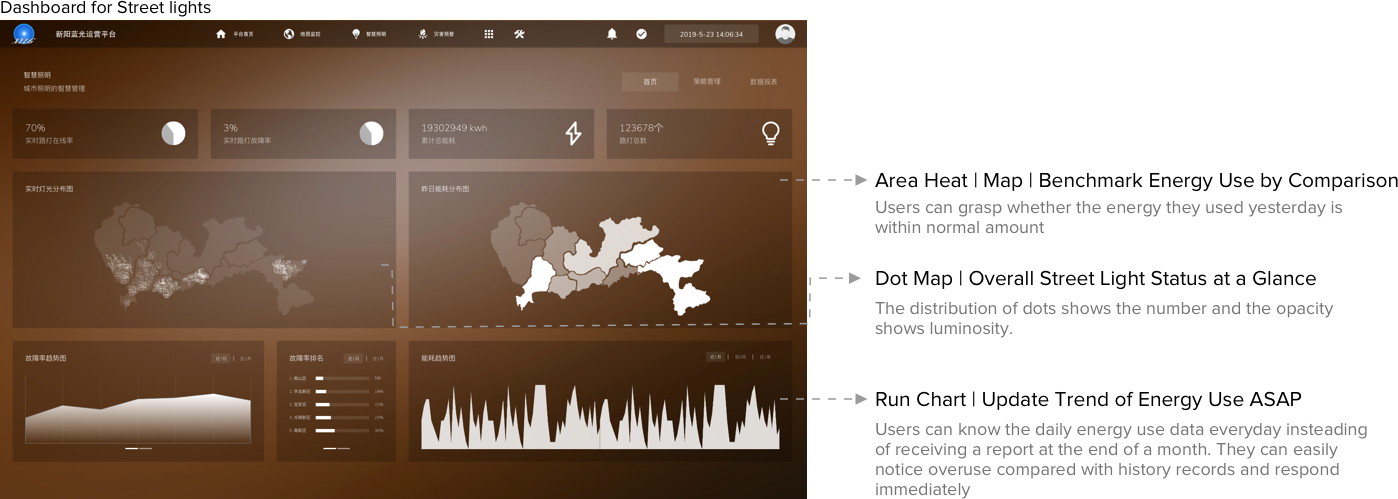
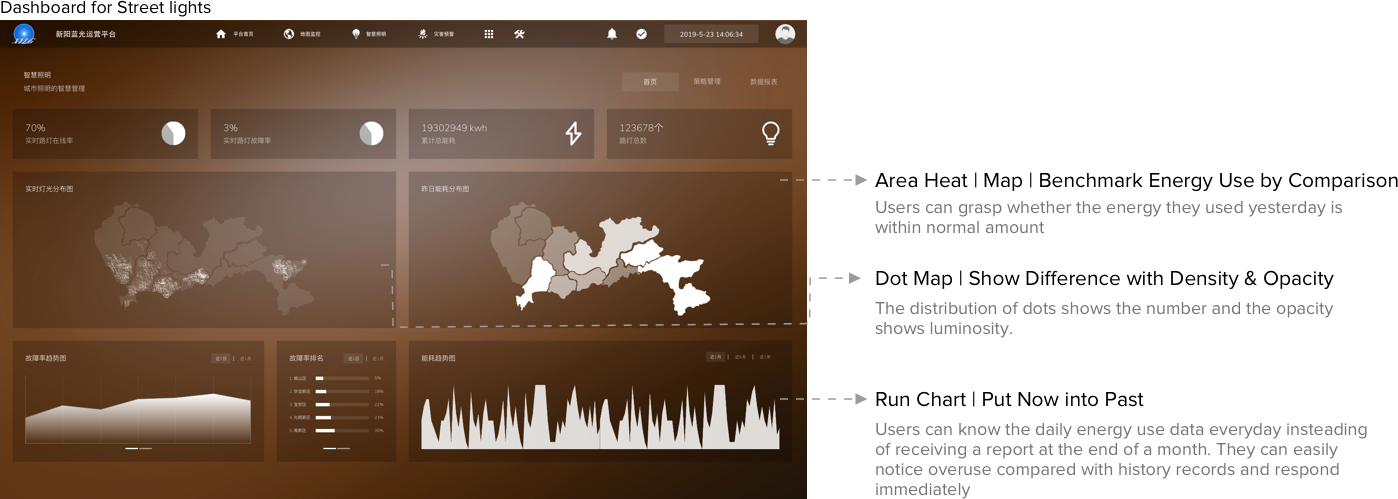
changes

Changed region(s): [[0.6767, 0.5411, 0.9535, 0.5711], [0.7074, 0.7816, 0.9535, 0.8116]]

diff --git a/src/pages/Designer/IoT.js b/src/pages/Designer/IoT.js
@@ -65,38 +65,40 @@ class IoT extends React.Component{
     
                 </section>
                 <section id="list-item-2" className="project_body">
-                    <h2>Research</h2>
+                    <h2>Preliminary Research</h2>
                     <h5>Who are our users and what are the constraints?</h5>
                     <img alt='' className="project_illustration_medium" src={process.env.PUBLIC_URL + "/images/IoT/deliver.jpg"} />
                     <p className="project_caption" style={{ "textAlign": "center" }}>I was delivering my findings to the project team.</p>
-                    <p>To better understand our end users, I interviewed managers and officers in a office park and also administrators from the department in charge of city sewage and light infrastructure. Combining with the knowledge from previous research, I was able to see the overall structure of the organization and how people actually work there.</p>
-                    <h6>Complex User Roles and Various Unmet Needs</h6>
+                    <h6>Methods</h6>
+                    <p>Field Trips and User Interviews</p>
+                    <h6>Participants</h6>
+                    <p>Managers and officers in a office park + Administrators from the department in charge of city sewage and light infrastructure. </p>
+                    <h6>Finding 1: Complex User Roles and Various Unmet Needs</h6>
                     <p>The biggest challenge we face when trying to define the users is that we are so far away from them. We worked for the client who worked for cities or parks. And they are the ones who will eventually implement the system. And normally, the organizations who are interested in IoT are big and complicated. After research, we defined that our users are people in these five different roles with various needs and goals.</p>
                     
                     <img alt='' className="project_illustration" src={process.env.PUBLIC_URL + "/images/IoT/user_role_need.png"} />   
-                    <p>Then we prioritized the jobs to be done (JTBD) and decided that, for this version, we were going to focus on helping the <b>system administrator</b> of the departments related to infrastructure, especially those taking care of the street light, sewage and environmental issues (air & water).</p>
+                    <p>Then, I asked my PM to prioritize the jobs to be done (JTBD) and we finally decided that, for this version, we were going to focus on helping the <b>system administrator</b> of the departments related to infrastructure, especially those taking care of the street light, sewage and environmental issues (air & water).</p>
                     
-                    <h6>Mismatch of System Models and User Mental Models</h6>
-                    <p>IoT system consists of various hardwares, softwares, communication channels, the cloud platform and cloud applications. It is complex and daunting. To create a better cloud application, I spent a lot of time talking with engineers and developers, to understand the purposes, functionalities and limitations of the devices.</p>
+                    <h6>Finding 2: Mismatch of System Models and User Mental Models</h6>
+                    <p>IoT system consists of various hardwares, softwares, communication channels, the cloud platform and cloud applications. It is complex and daunting. I spent a lot of time talking with engineers and developers, to understand the purposes, functionalities and limitations of the devices.</p>
                     
-                    <p>To my surprise, I found that many devices were not working in the ways as I thought it would be.</p>
+                    <p>To my surprise, I found that many devices were not working in the ways that as the users thought it would be.</p>
                     
                     <img alt='' className="project_illustration_small" src={process.env.PUBLIC_URL + "/images/IoT/limitation.png"} />   
                     <p className="project_caption">For example, I thought that the smart street lights could adjust to changing ambient lights and for other cases, they followed a local schedule 'downloading' from the cloud. However, the truth is that the street lights themselves do not contain light sensors. The light sensors work independently, sending data to the cloud. It depends on the cloud application to process sensor data, calculate and send commands to the street lights to control them according to the changes of ambient light. Moreover, the street light works according to ‘a 24-hour clock’. Once the application sends a command, for example, asking it to turn on at 6:00 am, the street light will maintain its status (on or off) at the moment until the time of the internal clock reaches the first 6:00 am.</p>
-                    <p>The mysterious system images of the devices are so different from user mental models and thus created huge obstacles in their use. Also, they created a lot of technical challenges in implementation. </p>
+                    <p>The mysterious system images of the devices were so different from user mental models and thus created huge obstacles in their use. Also, they created a lot of technical challenges in implementation. </p>
                     </section>
                     
                     
                     <section>
-                        <h2>Design Problems</h2>
-                        <h5>What are the actionable problems?</h5>
-                        <p>To move from general knowledge to actionable items, I led a testing on existing website by inviting colleagues from different teams to play the role of a system administrator of the Nanshan District, and complete tasks we assigned according to the users’ daily tasks we learned from research. You can read <a href="https://docs.google.com/document/d/1Wzhgqrxo7YtJaYprwnFdA7flDMVM8VVzVDO9i_Pwb1Y/edit?usp=sharing">the English version of the script here.</a></p>
-                        <p>After several role-playing walkthroughs, I finally located the following problems that I can take actions to:</p>
+                        <h2>From General Knowledge to Design Problems</h2>
+                        <h5>Used usability testing to pivot on actionable items</h5> 
+                        <p>To bridge the preliminary research and design phase, I led a <b>role playing</b> session on existing website by inviting colleagues from different teams to play the role of a system administrator of the Nanshan District, and complete tasks we assigned according to the users’ daily tasks we learned from previous research. You can read <a href="https://docs.google.com/document/d/1Wzhgqrxo7YtJaYprwnFdA7flDMVM8VVzVDO9i_Pwb1Y/edit?usp=sharing">the English version of the script here.</a></p>
+                        <p>After several role-playing walkthroughs, I finally located the following problems that I could take actions to:</p>
                         <ul>
-                            <li><b>#1</b> Users cannot grasp the information of the dashboards at a glance;</li>
-                            <li><b>#2</b> Users are not satisfied with a single-page notification center when they want to keep track of anomalies and take actions;</li>
-                            <li><b>#3</b> Users are unable to navigate, zoom in and out the map view easily for both the overview and details;</li>
-                            <li><b>#4</b> Single-light real time control does not fit with the user working habits and the system’s end goal;</li>
+                            <li><b>#1</b> Users could not grasp system status at a glance and move from what they know to what they can do;</li>
+                            <li><b>#2</b> Users were unable to navigate, zoom in and out the map view easily for both a overview and details;</li>
+                            <li><b>#3</b> Single-light real time control did not not fit with the users' working habits;</li>
                         </ul>
                         
                     </section>     
@@ -109,46 +111,41 @@ class IoT extends React.Component{
        
                 <section id="list-item-3" className="project_body">
                     <h2>#1 Design Problem | Data visualization</h2>
-                    <h5>How can we help users to grasp the status of the system at a glance?</h5>
-                    <p>In the interview, I noticed that administrator's daily workflow involves three kinds of data</p>
+                    <h5>How can we help users to grasp and use the information they need?</h5>
+                    <p>In the interview, I noticed that administrator's daily workflow can be depicted as follow:</p>
                         <img alt='' className="project_illustration" src={process.env.PUBLIC_URL + "/images/IoT/3_types_of_data.png"} />  
-              
+                        <p className="project_caption" style={{ "textAlign": "center" }}>A Day of an Administrator</p>
                     <h6>① Overview</h6>
-                    <p>As shown in the quotes, people often walked around the areas they in charge or checked the monitors, went through the history of data, and compared with others or some benchmarks to evaluate whether the system is healthy or not. Similarly, providing <b>real-time snapshot</b> of the system status, <b>historical records</b> and <b>comparisons</b> on the dashboards can help users to quickly grasp the overview. Thus, I tried to include all these three perspectives in the data visualization.</p>
-                    <p>So I started with low-fidelity prototypes and test them with my colleagues from administrative team as an alternative to real users since they have the most similiar mindset. I asked them to sort the graphs according to importance, and point out the ones they could not understand.</p>
+                    
+                    <p>I started with low-fidelity prototypes and test them with my colleagues from administrative team as an alternative to real users, since they share similiar mindset. I asked them to sort the graphs according to importance, and point out the ones they could not understand.</p>
                     <img alt='' className="project_illustration_medium" src={process.env.PUBLIC_URL + "/images/IoT/testing_vis.gif"} />
-                    <p className="project_caption">This is a clickable testing page I created with Axure. The tree maps on the left are the categories these graphs belong to including energy consumption data, quantity data and device type data. The graphs are drafted from all the three perspectives I mentioned above.</p>
-                    <p>Based on people’s reaction. I delivered four dashboards: one for all devices, which is at the homepage of the application; and others are for smart street lights, smart manhole covers and environment sensors. </p>
+                    <p className="project_caption">This is a clickable testing page I created with Axure. The graphs are drafted from all the three perspectives I mentioned above.</p>
+                    <p>I found that: </p>
+                    <div className="project_quote">
+                        <div className="project_quote_wrapper">
+                        <p className="project_quote_text">People make sense of data only in comparison.</p>
+                        </div>
+                    </div>
+                    
+                    <p><b>Real-time snapshots</b> of the system can reveal to them the status quo, but more importantly, comparing data with <b>historical records</b> and <b>others</b>  can help them interpret the data in contexts.</p>
+                   
+                    <p>Based on the insight. I delivered four dashboards: one for all devices, which is at the homepage of the application; and others are for smart street lights, smart manhole covers and environment sensors. </p>
                     <img alt='' className="project_illustration" src={process.env.PUBLIC_URL + "/images/IoT/street_light_dashboard.png"} />   
                     <div className="image_model_link_container"><Button variant="link" onClick={() => this.triggerModel("/images/IoT/street_light_dashboard_move.gif")}>Click to watch it move.</Button></div>
-                    <p className="project_caption">This is the dashboard for street lights. I created seven different variations and finally settled down on this one since it puts emphasis on snapshot of lighting in the area and allows users to compare among areas and across time.</p>
                     <img alt='' className="project_illustration" src={process.env.PUBLIC_URL + "/images/IoT/homepage_dashboard.png"} /> 
                     <div className="image_model_link_container"><Button variant="link" onClick={() => this.triggerModel("/images/IoT/homepage_dashboard_move.gif")}>Click to watch it move.</Button></div>
                     <img alt='' className="project_illustration" src={process.env.PUBLIC_URL + "/images/IoT/env_sensor_dashboard.png"} /> 
                     <div className="image_model_link_container"><Button variant="link" onClick={() => this.triggerModel("/images/IoT/env_sensor_dashboard_move.gif")}>Click to watch it move.</Button></div>
                     <img alt='' className="project_illustration" src={process.env.PUBLIC_URL + "/images/IoT/manhole_cover_dashboard.png"} /> 
                     <div className="image_model_link_container"><Button variant="link" onClick={() => this.triggerModel("/images/IoT/manhole_cover_dashboard_move.gif")}>Click to watch it move.</Button></div>
-                    <p className="project_caption">These are the other dashboards. The first one is on homepage. The visualization here focuses on showing the general status of the system. The second is dashboard for environmental sensors and the last for smart manhole covers.</p>
-    
-                    <p>To sum up, to show real-time status, I used big numbers, pie charts (especially for those numbers which are too big to make sense) and heatmaps, and put emphasis on abnormal areas on the map. For history, I used run charts. For comparison among areas, heatmap and ranking are useful. </p>
-
-                    <h6>② Anomalies</h6>
-                    <p>In the interview, participants kept mentioning how they checked on device breakdown or abnormal data in their daily work. They wanted to know what is going wrong, and they sought for more information, and guidance on how to bring them back to normal. So to feed this need, creating a better notification system is with high priority (this is described in the latter part). Moreover, we need to improve the dashboards to highlight abnormal data. So I worked with PM and engineers to define anomalies for different data and worked with visual designers on how they should be displayed.</p>
+                    <p> Moreover, we need to improve the dashboards to highlight abnormal data. So I worked with PM and engineers to define anomalies for different data and worked with visual designers on how they should be displayed.</p>
                     <img alt='' className="project_illustration" src={process.env.PUBLIC_URL + "/images/IoT/color_legend_icon.png"} />
                     <p className="project_caption" style={{ "textAlign": "center" }}>Icons credited to visual and graphic designer Shiguang Yang.</p>
                     <p>On the left are the color legends I created based on devices' data set and national standards; On the right are the icons indicating various device status.</p>
 
-                    <h6>③ Details</h6>
-                    <p>Sometimes users did go out to check on a specific device, mostly when something went wrong. Therefore, I linked alerts and abnormal area on heatmap with the related device’s detailed information. </p>
-                    <img alt='' className="project_illustration" src={process.env.PUBLIC_URL + "/images/IoT/anomaly_to_detail.gif"} /> 
-                    <p className="project_caption">Here is an example of how users are able to navigate to detailed page of a specific device from dashboard map. The detailed page provides general information of the device, real-time data and also logs in forms of table and graph.</p>
+                    <h6>② Anomalies</h6>
+                    <p>In the interview, participants kept mentioning how they checked on device breakdown or abnormal data in their daily work. They wanted to know what is going wrong, and they sought for more information, and guidance on how to bring them back to normal.</p>
                     
-                </section>
-
-                <section id="list-item-4" className="project_body">
-                    <h2>#2 Design Problem | Interaction Design</h2>
-                    <h5>How can we alert users to the abnormal data and help them fix them?</h5>
-                    <p>As I mentioned before, users care about anomalies, since they indicate problems to be fixed. However, only noticing the problem is not enough. Users want ways to actually solve the problem. </p>
                     <p>I divided the process of alert into <b>three phases</b>: <b>notice</b>, <b>understand</b>, <b>act</b>. The biggest gap doesn’t lie between the anomaly and the user’s perception, but between perception and action.</p>
                     <img alt='three phases of alert design' className="project_illustration_medium" src={process.env.PUBLIC_URL + "/images/IoT/three_phases.png"} />
                     <p className="project_caption">A sketch of the three phases of alert design and the wireframes of their application in the website.</p>
@@ -167,9 +164,21 @@ class IoT extends React.Component{
                     <p>In the previous phase, users can easily find an button that leads them to the page where they can kick off the procedure to deal with the problem.</p>
                     <img alt='three phases of alert design' className="project_illustration" src={process.env.PUBLIC_URL + "/images/IoT/alert_3.gif"} />
                     
+                    
+            
+                    
+                    
+
+                    <h6>③ Detailed View</h6>
+                    <p>Sometimes users did go out to check on a specific device, mostly when something went wrong. Therefore, I linked alerts and abnormal area on heatmap with the related device’s detailed information. </p>
+                    <img alt='' className="project_illustration" src={process.env.PUBLIC_URL + "/images/IoT/anomaly_to_detail.gif"} /> 
+                    <p className="project_caption">Here is an example of how users are able to navigate to detailed page of a specific device from dashboard map. The detailed page provides general information of the device, real-time data and also logs in forms of table and graph.</p>
+                    
                 </section>
+
+     
                 <section id="list-item-5" className="project_body">
-                    <h2>#3 Design Problem | Information Navigation & Findibility</h2>
+                    <h2>#2 Design Problem | Information Navigation & Findibility</h2>
                     <h5>How can we help users to navigate information at various scales?</h5>
                     <p>There are three important components in the map view of monitor and control hub: a map showing devices with icons, a list of devices in the right drawer, filters of areas and device types on the top. During the role-play walkthroughs, I found that: </p>
                     <Container>
@@ -215,7 +224,7 @@ class IoT extends React.Component{
                     
                 </section>
                 <section id="list-item-6" className="project_body">
-                    <h2>#4 Design Problem | Match System Image with User Mental Model</h2>
+                    <h2>#3 Design Problem | Match System Image with User Mental Model</h2>
                     <h5>How can we improve the way how users control the street lights to be simple and intuitive?</h5>
                     <h6>How do users actually work in real life?</h6>
                     <p>In the user interview, I found that how users set the working time of street lights was different from what I had thought. </p>
@@ -281,16 +290,15 @@ class IoT extends React.Component{
               onHide={() => this.setState({modalShow:false})} 
               url={this.state.url}
             />
-            <div className="scrollby" style={{position: "fixed", right: "3vw", bottom: "5vh"}}>
+            <div className="scrollby" style={{position: "fixed", right: "2vw", bottom: "5vh"}}>
                 <ul uk-scrollspy-nav="closest: li; scroll: true; offset: 80"
                     className="uk-nav uk-nav-default tm-nav uk-nav-parent-icon">
                     <li className="uk-l"><a href="#list-item-0">Top</a></li>
                     <li className="uk-l"><a href="#list-item-1">Background</a></li>
-                    <li className="uk-l"><a href="#list-item-2">Research</a></li>
-                    <li className="uk-l"><a href="#list-item-3">#1 Data Visualization: dashboards</a></li>
-                    <li className="uk-l"><a href="#list-item-4">#2 Interaction Design: notification</a></li>
-                    <li className="uk-l"><a href="#list-item-5">#3 Information Navigation: map</a></li>
-                    <li className="uk-l"><a href="#list-item-6">#4 System Image: street light control</a></li>
+                    <li className="uk-l"><a href="#list-item-2">Preliminary Research</a></li>
+                    <li className="uk-l"><a href="#list-item-3">#1 Make Data Glanceable and Usable</a></li>
+                    <li className="uk-l"><a href="#list-item-5">#2 Improve Information Navigation</a></li>
+                    <li className="uk-l"><a href="#list-item-6">#3 Improve System Image</a></li>
                     <li className="uk-l"><a href="#list-item-7">To Dos</a></li>
                     <li className="uk-l"><a href="#list-item-8">Takeaways</a></li>
                 </ul>

diff --git a/src/App.css b/src/App.css
@@ -434,7 +434,13 @@ li, ol{
 }
 
 
-
+.project_bracket_title{
+  color: rgba(0, 0, 0, 0.54);
+  font-size: 21px;
+  line-height: 1.58;
+  font-weight: 300;
+  margin: 2.95em 0 -2.95em;
+}
 
 .project_caption{
   /* margin-top: 21px;
